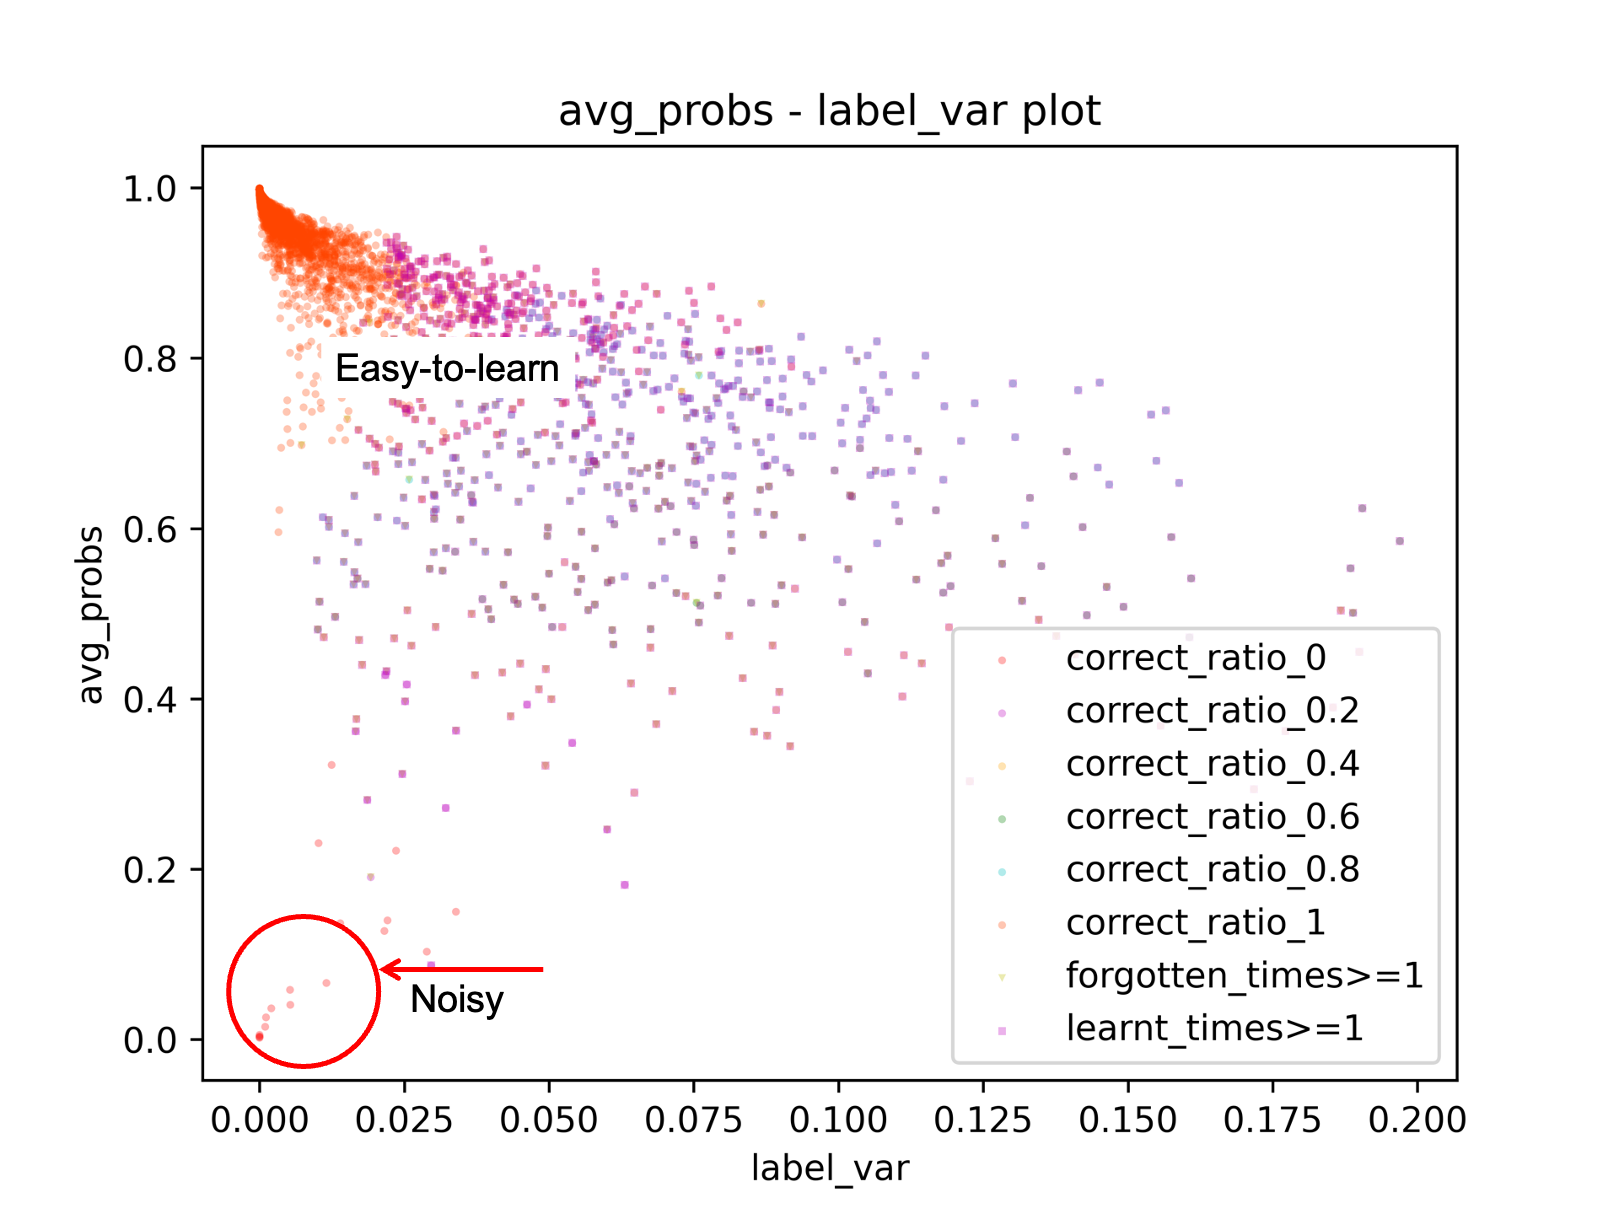
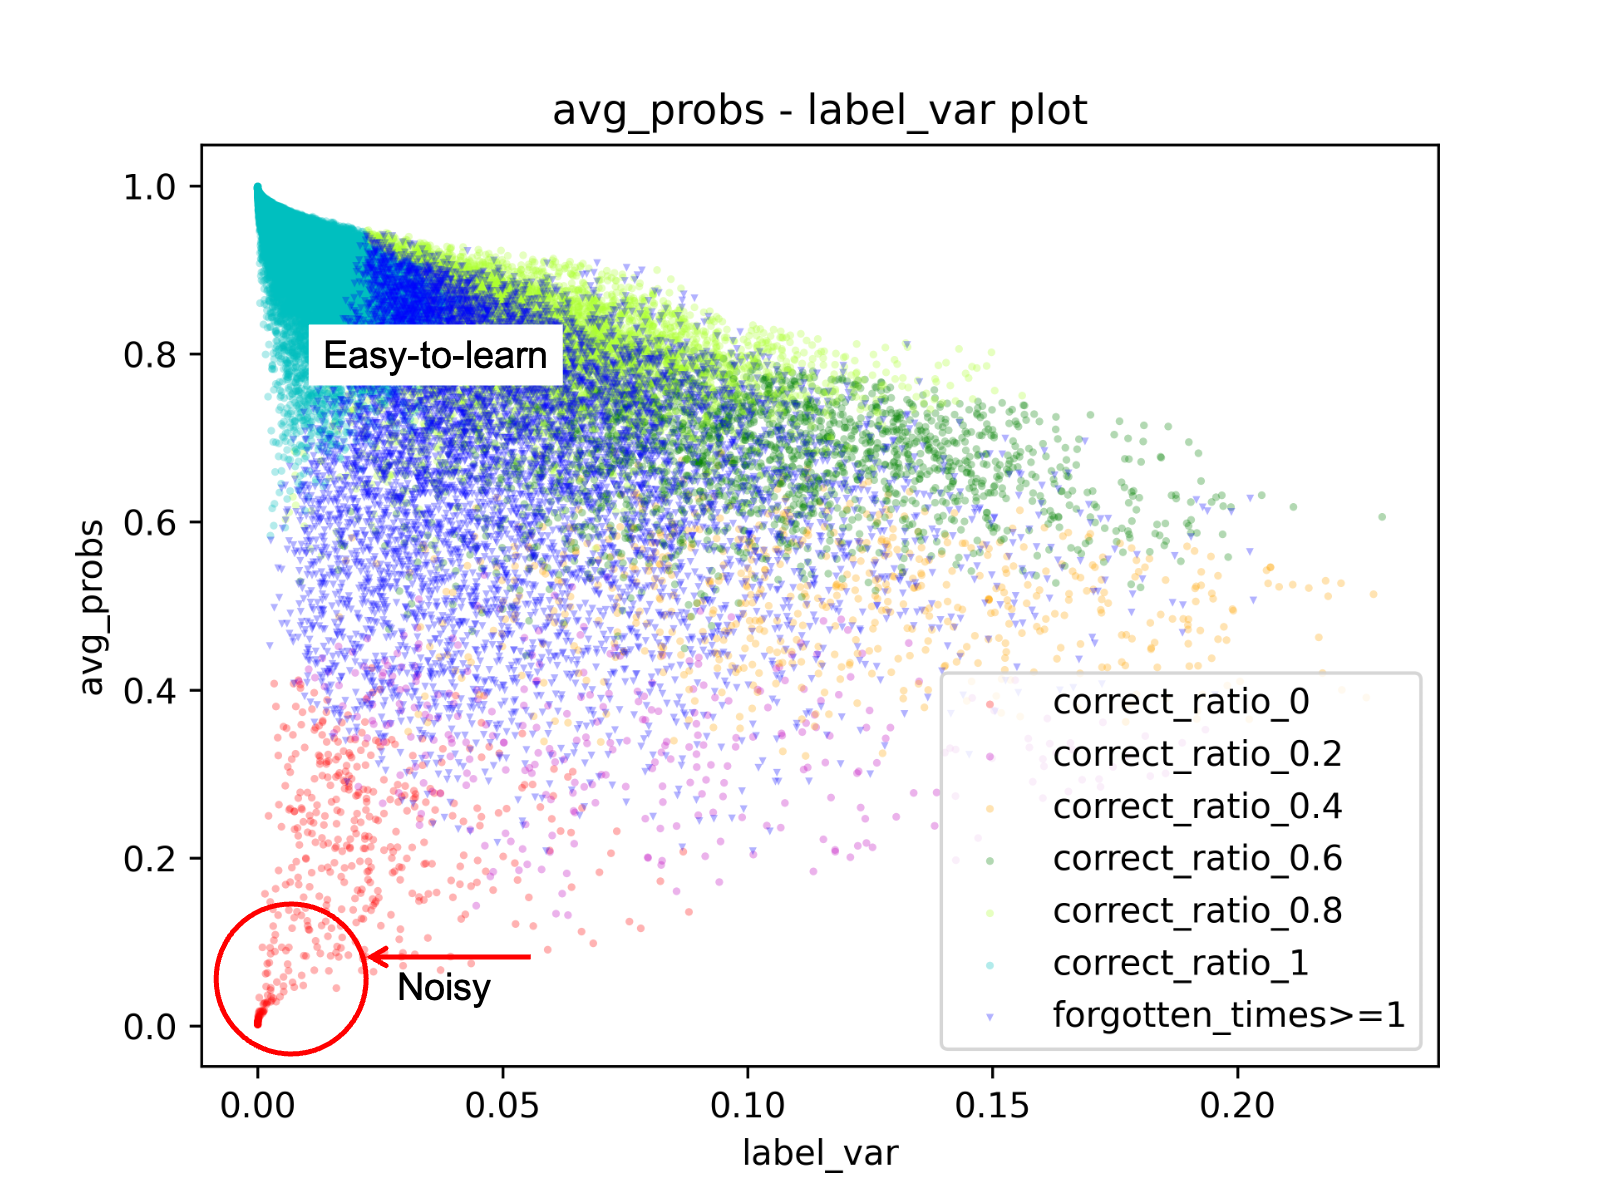
image update

diff --git a/tutorials/data_map/plot_map.py b/tutorials/data_map/plot_map.py
@@ -6,7 +6,6 @@ import argparse
 
 input_path = "./outputs/"
 input_file = "output_data.json.result"
-input_file = "train_lcqmc_orig_238k_10ep.json.result.rpm_grdt.sparsity.low_bias"
 
 parser = argparse.ArgumentParser()
 parser.add_argument(
@@ -295,6 +294,6 @@ if __name__ == "__main__":
 
     run_plot(in_path=input_path, in_file=input_file, dim1=attr1, dim2=attr2, 
         criterion=criterion, threshold=threshold, use_f_times=use_f_times, use_l_times=use_l_times)
-    run_plot(in_path=input_path, in_file=input_file, dim1=attr1, dim2=attr2, criterion="forgetting_times", threshold=1)
-    run_plot(in_path=input_path, in_file=input_file, dim1=attr1, dim2=attr2, use_f_times=0)
-    run_plot(in_path=input_path, in_file=input_file, dim1=attr1, dim2=attr2, use_l_times=0)
+    #run_plot(in_path=input_path, in_file=input_file, dim1=attr1, dim2=attr2, criterion="forgetting_times", threshold=1)
+    #run_plot(in_path=input_path, in_file=input_file, dim1=attr1, dim2=attr2, use_f_times=0)
+    #run_plot(in_path=input_path, in_file=input_file, dim1=attr1, dim2=attr2, use_l_times=0)

diff --git a/tutorials/data_map/train_pointwise.py b/tutorials/data_map/train_pointwise.py
@@ -116,12 +116,10 @@ base_model = 'bert_base'
 class sim_data(DatasetBuilder):
     
     def _read(self, filename):
-        with open(filename, "r", encoding="utf8") as f:
-            i = 0
+        with open(filename, "r", encoding="utf8") as f:            
             for line in f.readlines():
                 line = line.strip()
-                line = line.split('\t')
-                print(len(line))
+                line = line.split('\t')                
                 if line[0] == 'text_a':
                     continue
                 elif len(line) == 4:
